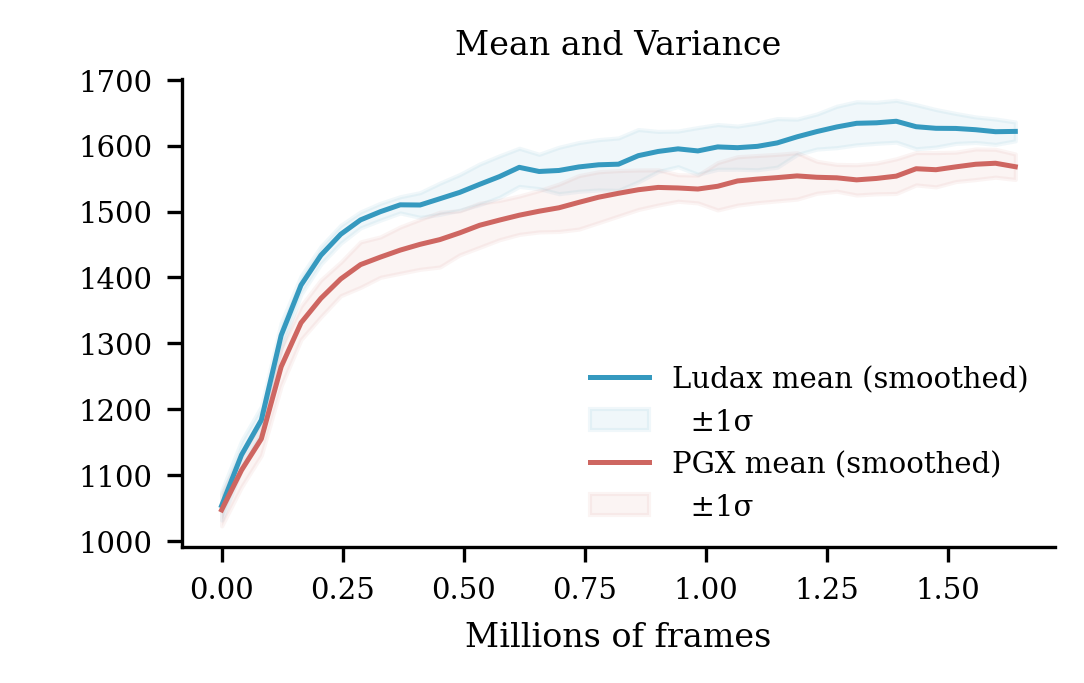
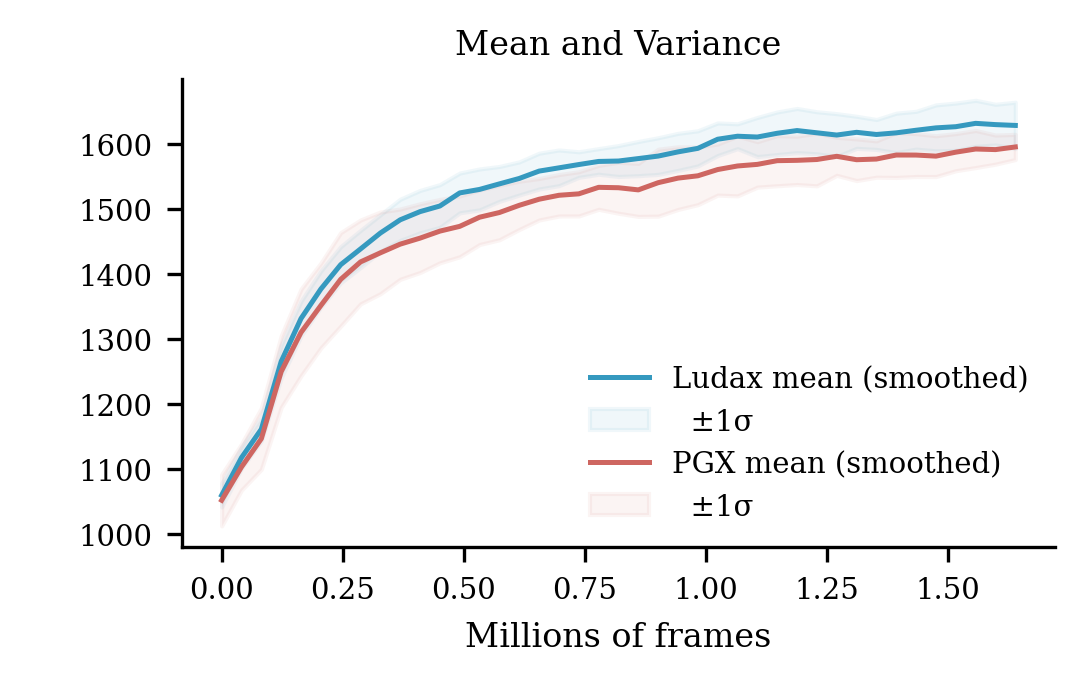
Generate Reversi Graph

diff --git a/examples/03-alpha-zero/train.py b/examples/03-alpha-zero/train.py
@@ -39,8 +39,9 @@ num_devices = len(devices)
 # ---------------------------------------------------------------------------
 # python examples/03-alpha-zero/train.py env_id=reversi     env_type=ldx     seed=0     max_num_iters=400     num_channels=64     num_layers=4     resnet_v2=True     selfplay_batch_size=4096     num_simulations=32     max_num_steps=64     training_batch_size=4096     learning_rate=0.001     eval_interval=10     eval_num_games=128  ckpt_dir="/users/alexpadula/store/ludax/checkpoints/"
 # python examples/03-alpha-zero/train.py env_id=hex     env_type=ldx     seed=0     max_num_iters=400     num_channels=64     num_layers=4     resnet_v2=True     selfplay_batch_size=4096     num_simulations=32     max_num_steps=256     training_batch_size=4096     learning_rate=0.001     eval_interval=10     eval_num_games=128  ckpt_dir="/users/alexpadula/store/ludax/checkpoints/"
-# python examples/03-alpha-zero/train.py env_id=dai_hasami_shogi     env_type=ldx     seed=0     max_num_iters=400     num_channels=64     num_layers=4     resnet_v2=True     selfplay_batch_size=4096     num_simulations=32     max_num_steps=512     training_batch_size=4096     learning_rate=0.001     eval_interval=10     eval_num_games=128  ckpt_dir="/users/alexpadula/store/ludax/checkpoints/"
-# python examples/03-alpha-zero/train.py env_id=english_draughts     env_type=ldx     seed=0     max_num_iters=400     num_channels=64     num_layers=4     resnet_v2=True     selfplay_batch_size=4096     num_simulations=32     max_num_steps=1024     training_batch_size=4096     learning_rate=0.001     eval_interval=10     eval_num_games=128  ckpt_dir="/users/alexpadula/store/ludax/checkpoints/"
+# python examples/03-alpha-zero/train.py env_id=dai_hasami_shogi     env_type=ldx     seed=0     max_num_iters=400     num_channels=64     num_layers=4     resnet_v2=True     selfplay_batch_size=4096     num_simulations=32     max_num_steps=1024     training_batch_size=4096     learning_rate=0.001     eval_interval=10     eval_num_games=128  ckpt_dir="/users/alexpadula/store/ludax/checkpoints/"
+# python examples/03-alpha-zero/train.py env_id=english_draughts     env_type=ldx     seed=42     max_num_iters=400     num_channels=64     num_layers=4     resnet_v2=True     selfplay_batch_size=4096     num_simulations=32     max_num_steps=128     training_batch_size=4096     learning_rate=0.001     eval_interval=10     eval_num_games=128  ckpt_dir="/users/alexpadula/store/ludax/checkpoints/english_draughts/"
+# python examples/03-alpha-zero/train.py env_id=wolf_and_sheep     env_type=ldx     seed=0     max_num_iters=400     num_channels=64     num_layers=4     resnet_v2=True     selfplay_batch_size=4096     num_simulations=32     max_num_steps=64     training_batch_size=4096     learning_rate=0.001     eval_interval=10     eval_num_games=128  ckpt_dir="/users/alexpadula/store/ludax/checkpoints/wolf_and_sheep/"
 
 
 # python examples/03-alpha-zero/train.py env_id=connect_four     env_type=ldx     seed=0     max_num_iters=400     num_channels=64     num_layers=4     resnet_v2=True     selfplay_batch_size=4096     num_simulations=32     max_num_steps=64     training_batch_size=4096     learning_rate=0.001     eval_interval=10     eval_num_games=128  ckpt_dir="/users/alexpadula/store/ludax/checkpoints/"

diff --git a/examples/03-alpha-zero/test_multi_piece.py b/examples/03-alpha-zero/test_multi_piece.py
@@ -4,8 +4,8 @@ from ludax import LudaxEnvironment, games
 
 BATCH_SIZE = 16
 
-test_games = games.__all__
-# test_games = ["tic_tac_toe", "hex", "english_draughts", "reversi"]
+# test_games = games.__all__
+test_games = ["english_draughts", "reversi", "tic_tac_toe", "hex"]
 for game in test_games:
     jax.debug.print(f"\nGame: {game}")
     

diff --git a/examples/05-paper-figures/plot_rl_performance.py b/examples/05-paper-figures/plot_rl_performance.py
@@ -7,7 +7,7 @@ import pickle
 import re
 
 GAMES_PER_BATCH = 4096
-GAME_NAME = "hex" # "connect_four" # "reversi"  # 
+GAME_NAME = "reversi" # "connect_four" # "reversi"  # 
 SMOOTH_WINDOW = 5  # frames to smooth over for mean/var plot
 
 
